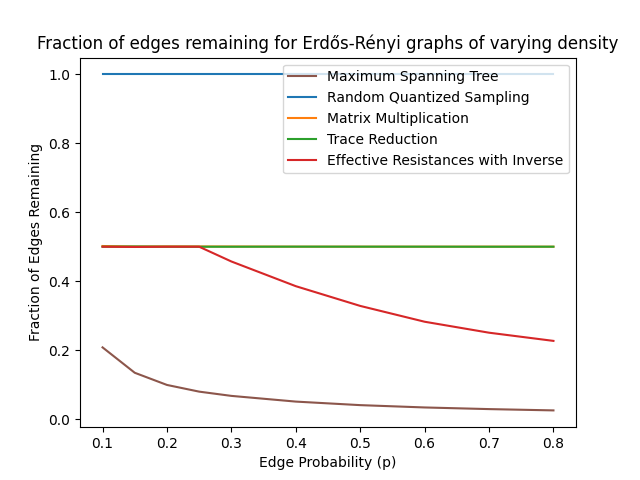
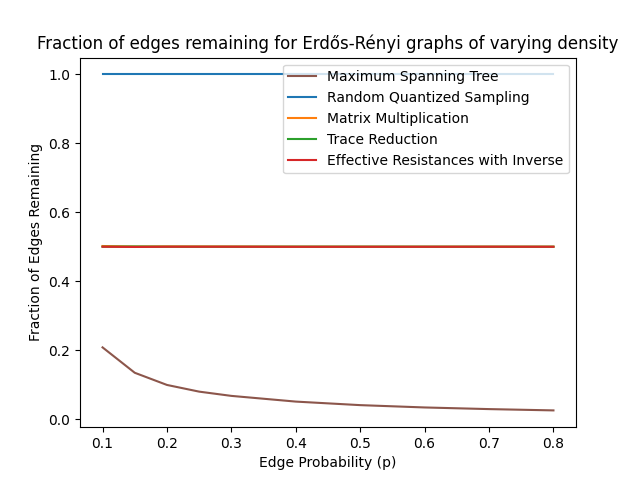
graph plots

diff --git a/Sparsifiers/effective_resistances.py b/Sparsifiers/effective_resistances.py
@@ -24,7 +24,7 @@ def EffRes_Pinv(G):
   return EffRes_Pinv_Base(G)
 
 # Compute effective resistances directly from Moore-Penrose Pseudoinverse
-def EffRes_Pinv_Base(G, q_max = 0, forceQ = False):
+def EffRes_Pinv_Base(G, num_edges = 0, forceEdges = False):
   n = G.number_of_nodes()
   eps = getConstObj().epsilon
   q = EffRes_SampleCount(n, eps)
@@ -45,25 +45,35 @@ def EffRes_Pinv_Base(G, q_max = 0, forceQ = False):
   weights = np.array(weights)
   weights = weights / np.sum(weights)
 
-  samples = np.random.choice(range(len(weights)), q, p=weights) 
-
   H = nx.Graph()
   H.add_nodes_from(G.nodes)
 
-  # TODO optimize by taking counts on samples
-  count = 0
   edges = list(G.edges(data=True))
-  for sample in samples:
-    edge = edges[sample]
-    w = edge[2]["weight"]/(q * weights[sample])
 
-    if H.has_edge(edge[0], edge[1]):
-      H[edge[0]][edge[1]]["weight"] += w
-    else:
-      H.add_edge(edge[0], edge[1], weight=w)
-      count += 1
-    if forceQ and count >= q_max:
+  num_samples = 0
+  while H.number_of_edges() < num_edges:
+    samples = np.random.choice(range(len(weights)), q, p=weights) 
+
+    for sample in samples:
+      edge = edges[sample]
+      w = edge[2]["weight"]/weights[sample]
+
+      if H.has_edge(edge[0], edge[1]):
+        H[edge[0]][edge[1]]["weight"] += w
+      else:
+        H.add_edge(edge[0], edge[1], weight=w)
+
+      num_samples += 1
+
+      if forceEdges and H.number_of_edges() >= num_edges:
+        break
+
+    if not forceEdges:
       break
+  
+  edges = list(H.edges(data=True))
+  for edge in edges:
+    H[edge[0]][edge[1]]["weight"] /= num_samples
 
   return H
 
@@ -95,7 +105,7 @@ def EffRes_SDDSolver(G, SDDSolver):
   return EffRes_SDDSolver_Base(G, SDDSolver)
 
 # Estimate effective resistances using provided solver
-def EffRes_SDDSolver_Base(G, SDDSolver, q_max = 0, forceQ = False):
+def EffRes_SDDSolver_Base(G, SDDSolver, num_edges = 0, forceEdges = False):
   n = G.number_of_nodes()
   eps = getConstObj().epsilon
   q = EffRes_SampleCount(n, eps)
@@ -115,24 +125,35 @@ def EffRes_SDDSolver_Base(G, SDDSolver, q_max = 0, forceQ = False):
   weights = np.array(weights)
   weights = weights / np.sum(weights)
 
-  samples = np.random.choice(range(len(weights)), q, p=weights) 
-
   H = nx.Graph()
   H.add_nodes_from(G.nodes)
 
-  # TODO optimize by taking counts on samples
-  count = 0
   edges = list(G.edges(data=True))
-  for sample in samples:
-    edge = edges[sample]
-    w = edge[2]["weight"]/(q * weights[sample])
 
-    if H.has_edge(edge[0], edge[1]):
-      H[edge[0]][edge[1]]["weight"] += w
-    else:
-      H.add_edge(edge[0], edge[1], weight=w)
-      count += 1
-    if forceQ and count >= q_max:
+  num_samples = 0
+
+  while H.number_of_edges() < num_edges:
+    samples = np.random.choice(range(len(weights)), q, p=weights) 
+
+    for sample in samples:
+      edge = edges[sample]
+      w = edge[2]["weight"]/weights[sample]
+
+      if H.has_edge(edge[0], edge[1]):
+        H[edge[0]][edge[1]]["weight"] += w
+      else:
+        H.add_edge(edge[0], edge[1], weight=w)
+      
+      num_samples += 1
+      
+      if forceEdges and H.number_of_edges() >= num_edges:
+        break
+
+    if not forceEdges:
       break
 
+  edges = list(H.edges(data=True))
+  for edge in edges:
+    H[edge[0]][edge[1]]["weight"] /= num_samples
+    
   return H

diff --git a/exp_fixed_graph_plots.py b/exp_fixed_graph_plots.py
@@ -1,0 +1,60 @@
+import numpy as np
+import networkx as nx
+import matplotlib.pyplot as plt
+
+from random_graphs import *
+from evaluators import *
+from utils import load
+
+from Sparsifiers.effective_resistances import *
+from Sparsifiers.approximate_matrix_multiplication import *
+from Sparsifiers.quantized_random import *
+
+from experiments import spectral_error_comparison, spectral_error_ratio_comparison, parse_experiment_data_mixed, fix_keys
+
+from methods_map import getMethodsMap
+
+
+methodsMapObj = getMethodsMap()
+
+names = ["ST", "F_RQS", "F_MM", "F_TR", "F_ER", "F_ERI"]
+
+graphs = {}
+
+G = nx.connected_caveman_graph(10, 30)
+set_random_weights(G)
+graphs["caveman"] = G
+
+
+G = nx.relaxed_caveman_graph(10, 30, .1, seed=0)
+set_random_weights(G)
+graphs["rel_caveman"] = G
+
+
+G = nx.barabasi_albert_graph(300, 5, seed=0)
+set_random_weights(G)
+graphs["preferential"] = G
+
+
+G = nx.grid_2d_graph(17, 17, periodic=False)
+set_random_weights(G)
+graphs["2d_grid"] = G
+
+
+for key in graphs:
+  G = graphs[key]
+  pos = nx.spring_layout(G, k = 10 / np.sqrt(G.number_of_nodes()), iterations=100)
+
+  nx.draw(G, pos=pos, node_size=3)
+  plt.savefig(f"./GraphPlots/graph_{key}.png")
+  plt.cla()
+
+  for name in names:
+    method = methodsMapObj.getMethod(name)
+    for ratio in [0.05, 0.1, 0.25, 0.5]:
+      getConstObj().edgeRatio = ratio
+      H = method(G)
+
+      nx.draw(H, pos=pos, node_size=3)
+      plt.savefig(f"./GraphPlots/graph_{key}_{name}_{ratio}.png")
+      plt.cla()

diff --git a/random_graphs.py b/random_graphs.py
@@ -19,11 +19,16 @@ def get_random_unweighted_graph(n, p = .1, seed = 0):
 
 def get_random_weighted_graph(n, p = .1, seed = 0):
   G = nx.fast_gnp_random_graph(n, p, seed=seed)
+  G = set_random_weights(G, seed)
+  connect_graph(G)
+  return G
+
+def set_random_weights(G, seed = 0):
   np.random.seed(seed)
   for edge in G.edges:
     G[edge[0]][edge[1]]['weight'] = np.random.rand()
-  connect_graph(G)
   return G
+
 
 def connect_graph(G):
   comps = list(nx.connected_components(G))

diff --git a/main.py b/main.py
@@ -33,7 +33,17 @@ from constants import getConstObj
 from methods_map import getMethodsMap
 
 
-import exp_fixed_edgeRatio
-import exp_fixed_condNum
-import exp_fixed_error
-import exp_fixed_runtime
+
+"""
+compare no preconditioner to preconditioner for SDD
+implement low stretch spanning tree for this
+
+plots of sparsification for different graphs and different edge ratio
+
+
+preferential attachment graph
+road networks
+mesh graph (surface)
+social network
+
+"""
